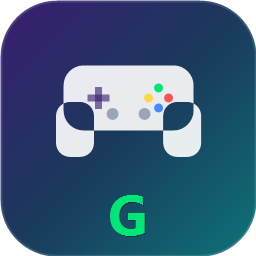
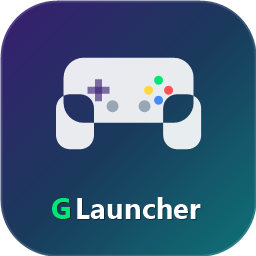
Ajuste launcher

Changed region(s): [[0.2188, 0.2188, 0.8125, 0.625], [0.1875, 0.75, 0.7812, 0.9375], [0.7812, 0.5312, 0.8125, 0.5625]]

diff --git a/GameLauncher/MainWindow.xaml b/GameLauncher/MainWindow.xaml
@@ -39,16 +39,7 @@
 
         <!-- Logo -->
         <StackPanel Grid.Column="0" Orientation="Horizontal" VerticalAlignment="Center">
-          <Border Width="40" Height="40" CornerRadius="10" Margin="0,0,10,0" ClipToBounds="True">
-            <Border.Background>
-              <LinearGradientBrush StartPoint="0,0" EndPoint="1,1">
-                <GradientStop Color="#3A1C71" Offset="0"/>
-                <GradientStop Color="#1A3A5C" Offset="0.5"/>
-                <GradientStop Color="#0D7377" Offset="1"/>
-              </LinearGradientBrush>
-            </Border.Background>
-            <md:PackIcon Kind="GamepadVariant" Width="22" Height="22" Foreground="White" HorizontalAlignment="Center" VerticalAlignment="Center"/>
-          </Border>
+          <Image Source="Assets/icon.png" Width="44" Height="44" Margin="0,0,12,0" RenderOptions.BitmapScalingMode="HighQuality"/>
           <StackPanel VerticalAlignment="Center">
             <TextBlock FontSize="20" FontWeight="Bold">
               <Run Text="G" Foreground="{DynamicResource AccentGreenBrush}"/><Run Text="Launcher" Foreground="White"/>

diff --git a/GameLauncher/Views/ThemeDialog.xaml.cs b/GameLauncher/Views/ThemeDialog.xaml.cs
@@ -3,6 +3,7 @@ using System.Windows.Controls;
 using System.Windows.Input;
 using System.Windows.Media;
 using GameLauncher.Services;
+using Color = System.Windows.Media.Color;
 
 namespace GameLauncher.Views;
 

diff --git a/GameLauncher/Controls/ArcGauge.xaml.cs b/GameLauncher/Controls/ArcGauge.xaml.cs
@@ -2,6 +2,7 @@ using System;
 using System.Windows;
 using System.Windows.Controls;
 using System.Windows.Media;
+using Color = System.Windows.Media.Color;
 
 namespace GameLauncher.Controls;
 
